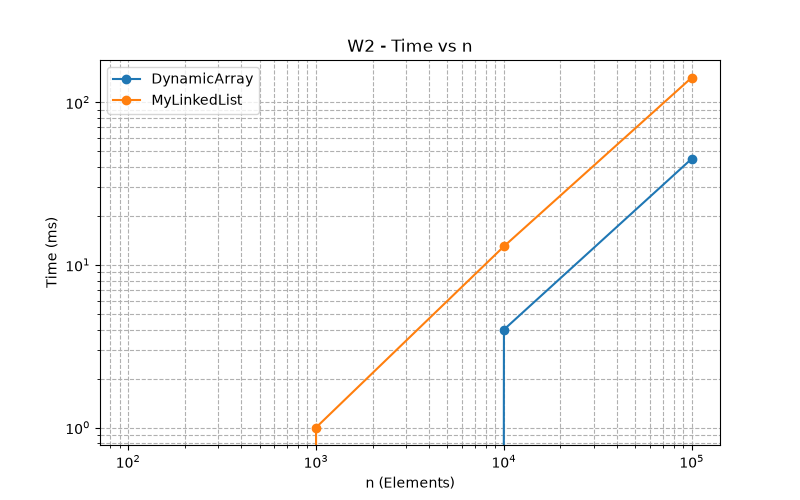
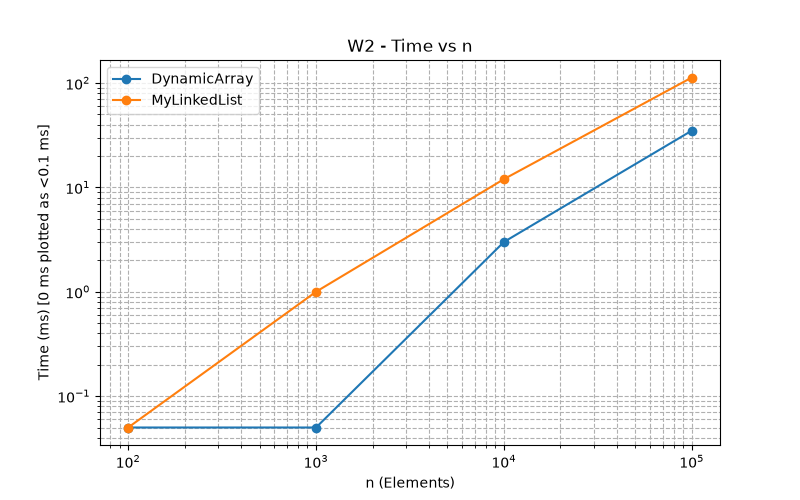
fix(bonus): use US locale for memory csv and fix log-scale plot rendering

diff --git a/generate_plots.py b/generate_plots.py
@@ -5,36 +5,35 @@ import matplotlib.pyplot as plt
 df = pd.read_csv('results/results.csv')
 os.makedirs('results/plots', exist_ok=True)
 
-workloads = df['workload'].unique()
+# Заменяем 0 ms на 0.05 ms, чтобы логарифмическая шкала не отбрасывала точки
+df['plot_time'] = df['time_ms'].apply(lambda x: 0.05 if x == 0 else float(x))
 
-for w in workloads:
+for w in df['workload'].unique():
     sub = df[df['workload'] == w]
-    variants = sub['variant'].unique()
-    
-    for v in variants:
+    for v in sub['variant'].unique():
         v_sub = sub[sub['variant'] == v]
         title_suffix = f" ({v})" if v != "-" else ""
         file_suffix = f"_{v}" if v != "-" else ""
-        
-        # 1. График Time vs n
+
+        # 1. Time vs n
         plt.figure(figsize=(8, 5))
         for struct in v_sub['structure'].unique():
-            data = v_sub[v_sub['structure'] == struct]
-            plt.plot(data['n'], data['time_ms'], marker='o', label=struct)
+            data = v_sub[v_sub['structure'] == struct].sort_values('n')
+            plt.plot(data['n'], data['plot_time'], marker='o', label=struct)
         plt.xscale('log')
         plt.yscale('log')
         plt.xlabel('n (Elements)')
-        plt.ylabel('Time (ms)')
+        plt.ylabel('Time (ms) [0 ms plotted as <0.1 ms]')
         plt.title(f'{w}{title_suffix} - Time vs n')
         plt.legend()
         plt.grid(True, which="both", ls="--")
         plt.savefig(f'results/plots/{w}{file_suffix}_time.png')
         plt.close()
 
-        # 2. График Operations vs n
+        # 2. Operations vs n
         plt.figure(figsize=(8, 5))
         for struct in v_sub['structure'].unique():
-            data = v_sub[v_sub['structure'] == struct]
+            data = v_sub[v_sub['structure'] == struct].sort_values('n')
             plt.plot(data['n'], data['steps'], marker='s', label=f'{struct} steps')
             plt.plot(data['n'], data['moves'], marker='^', linestyle=':', label=f'{struct} moves')
             plt.plot(data['n'], data['comparisons'], marker='x', linestyle='--', label=f'{struct} comparisons')
@@ -48,4 +47,4 @@ for w in workloads:
         plt.savefig(f'results/plots/{w}{file_suffix}_operations.png')
         plt.close()
 
-print("All plots generated successfully in results/plots/")
+print("Main plots regenerated successfully.")

diff --git a/generate_bonus_plots.py b/generate_bonus_plots.py
@@ -1,11 +1,11 @@
 import pandas as pd
 import matplotlib.pyplot as plt
 
-# 1. График Memory (MB) vs n (Task A)
+# 1. Task A: Memory vs n
 df_mem = pd.read_csv('results/bonus_memory.csv')
 plt.figure(figsize=(8, 5))
-for s in df_mem['structure'].unique():
-    sub = df_mem[df_mem['structure'] == s]
+for s in ['DynamicArray', 'MyLinkedList', 'MinHeap']:
+    sub = df_mem[df_mem['structure'] == s].sort_values('n')
     plt.plot(sub['n'], sub['memory_mb'], marker='o', label=s)
 
 plt.xscale('log')
@@ -18,11 +18,11 @@ plt.grid(True, which="both", ls="--")
 plt.savefig('results/plots/memory_vs_n.png')
 plt.close()
 
-# 2. График Floyd buildHeap vs n Inserts (Task B)
+# 2. Task B: Floyd vs n Inserts
 df_heap = pd.read_csv('results/bonus_buildheap.csv')
 plt.figure(figsize=(8, 5))
 for m in df_heap['method'].unique():
-    sub = df_heap[df_heap['method'] == m]
+    sub = df_heap[df_heap['method'] == m].sort_values('n')
     label_text = "Floyd O(n)" if m == "floyd_buildHeap" else "n Inserts O(n log n)"
     plt.plot(sub['n'], sub['comparisons'], marker='s', label=f'{label_text} (comparisons)')
 
@@ -36,4 +36,4 @@ plt.grid(True, which="both", ls="--")
 plt.savefig('results/plots/buildheap_comparison.png')
 plt.close()
 
-print("Bonus plots generated successfully in results/plots/")
+print("Bonus plots regenerated successfully.")

diff --git a/src/main/java/engine/BonusRunner.java b/src/main/java/engine/BonusRunner.java
@@ -34,10 +34,9 @@ public class BonusRunner {
                 long listBytes = GraphLayout.parseInstance(list).totalSize();
                 long heapBytes = GraphLayout.parseInstance(heap).totalSize();
 
-                out.printf("DynamicArray,%d,%d,%.4f%n", n, arrBytes, arrBytes / (1024.0 * 1024.0));
-                out.printf("MyLinkedList,%d,%d,%.4f%n", n, listBytes, listBytes / (1024.0 * 1024.0));
-                out.printf("MinHeap,%d,%d,%.4f%n", n, heapBytes, heapBytes / (1024.0 * 1024.0));
-            }
+                out.printf(java.util.Locale.US, "DynamicArray,%d,%d,%.6f%n", n, arrBytes, arrBytes / (1024.0 * 1024.0));
+                out.printf(java.util.Locale.US, "MyLinkedList,%d,%d,%.6f%n", n, listBytes, listBytes / (1024.0 * 1024.0));
+                out.printf(java.util.Locale.US, "MinHeap,%d,%d,%.6f%n", n, heapBytes, heapBytes / (1024.0 * 1024.0));            }
         }
         System.out.println("Memory results saved to results/bonus_memory.csv");
     }
